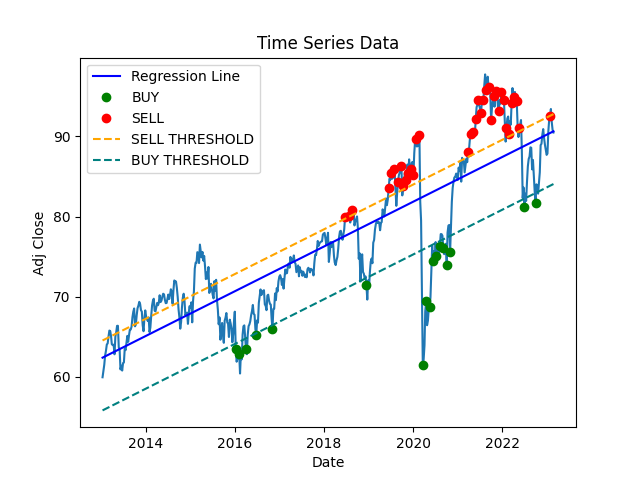
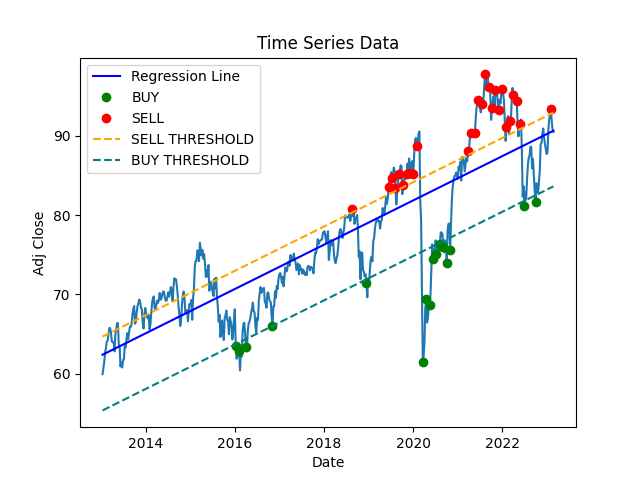
changes to strategy1

diff --git a/40percentStrategy.py b/40percentStrategy.py
@@ -16,7 +16,6 @@ plt.ylabel('Adj Close')
 plt.title('Time Series Data')
 plt.savefig('figure1.png')
 
-# total_profit, bank_reserve, buy_dates, sell_dates, sell_threshold, buy_threshold, regression, std, buy_list, coeffs, total_cgt = strategy_1(data, buy_frequency_limit=5, buy_threshold=1, sell_threshold=1, sell_frequency_limit=8, sell_percentage=0.4)
 
 #### Testing ###################################################################
 import random
@@ -46,9 +45,13 @@ def generate_random_params():
 
 def run_strategy(params):
     buy_frequency_limit, buy_threshold, sell_threshold, sell_frequency_limit, sell_percentage = params
+
     # Call the strategy function with the given input parameters
+
     revenue = strategy_1(data, buy_frequency_limit=buy_frequency_limit, buy_threshold=buy_threshold, sell_threshold=sell_threshold, sell_frequency_limit=sell_frequency_limit, sell_percentage=sell_percentage)[0]
-    # total_profit = strategy_2(data)
+    
+    # revenue = strategy_2(data, buy_frequency_limit=buy_frequency_limit)[0]
+
     print(f"Total Revenue: ${round(revenue):,}")
     return revenue
 
@@ -101,11 +104,16 @@ best_params, best_revenue = run_simulated_annealing(num_iterations)
 
 print(f"Best revenue:  ${round(best_revenue):,} with parameters: \n\nbuy_frequency_limit={best_params[0]}, buy_threshold={best_params[1]}, sell_threshold={best_params[2]}, sell_frequency_limit={best_params[3]}, sell_percentage={best_params[4]} \n")
 
-# Pass the best result to Data Analysis
 
-# total_profit, bank_reserve, buy_dates, sell_dates, sell_threshold, buy_threshold, regression, std, buy_list, coeffs, total_cgt, contributions, revenue = strategy_1(data, buy_frequency_limit=best_params[0], buy_threshold=best_params[1], sell_threshold=best_params[2], sell_frequency_limit=best_params[3], sell_percentage=best_params[4])
 
-total_profit, bank_reserve, buy_dates, buy_list, sell_dates, regression, sell_threshold, std, buy_threshold, contributions, total_cgt, coeffs = strategy_2(data)
+# Pass the best result to Data Analysis ##############################################################################################################################################
+
+# Strategy 1
+total_profit, bank_reserve, buy_dates, sell_dates, sell_threshold, buy_threshold, regression, std, buy_list, coeffs, total_cgt, contributions, revenue = strategy_1(data, buy_frequency_limit=best_params[0], buy_threshold=best_params[1], sell_threshold=best_params[2], sell_frequency_limit=best_params[3], sell_percentage=best_params[4])
+
+# Strategy 2
+# bank_reserve, buy_dates, regression, std, buy_list, coeffs, contributions, revenue = strategy_2(data, buy_frequency_limit=best_params[0])
+
 
 # DATA ANALYSIS ###############################################################
 
@@ -125,13 +133,10 @@ plt.savefig('figure2.png')
 # Calculate Variables
 year = datetime.strptime(str(buy_dates[0]), '%Y-%m-%d %H:%M:%S').year
 value_in_market = 0
-while len(buy_list) != 0:
-    buy_price, purchase_week, shares = buy_list.pop()
-    value_in_market += shares * buy_price
-ending_value = total_profit + contributions + value_in_market
+ending_value = revenue
 number_of_years = 10
-annualized_return = ((ending_value / contributions) ** (1/number_of_years))
-#### year_on_year_return =  ((ending_value - beginning_value) / beginning_value) * 100
+annualized_return = ((((ending_value - contributions) / contributions) * 100) / number_of_years)
+# year_on_year_return =  ((ending_value - beginning_value) / beginning_value) * 100
 
 ending_value = round(ending_value)
 print(ending_value)
@@ -139,7 +144,6 @@ print(f"{contributions}")
 print(f"{number_of_years}")
 TWR = ending_value / (contributions) ** (1 / 10) - 1
 print(f"TWR is {TWR}")
-
 
 print(f"{annualized_return}")
 
@@ -151,5 +155,5 @@ print(f"Value still in market: ${round(value_in_market):,}")
 print(f"Amount in bank: ${round(bank_reserve):,}")
 print(f"Total Revenue is: ${round(ending_value):,}")
 print(f"Total Tax: ${round(total_cgt):,}")
-print(f"{round(annualized_return*100,2)}% Return y/y")
+print(f"{round(annualized_return,3)}% Return y/y")
 print(f"Market Return: {round(coeffs[0] * 100)}%")

diff --git a/strategy_2.py b/strategy_2.py
@@ -12,7 +12,6 @@ def strategy_2(data, buy_frequency_limit):
     buy_week_count = 0 # Counter for number of consecutive weeks below regression line
     buy_dates = []
     buy_list = []
-    total_profit = 0
     contributions = 0
 
     # Calculate regression and standard deviation
@@ -30,19 +29,19 @@ def strategy_2(data, buy_frequency_limit):
             contributions += 3000
             buy_week_count += 1
 
-            if buy_week_count > buy_frequency_limit:
-                # Buy as many shares as possible with the bank_reserve amount
-                share_price = data['Adj Close'][i]
-                shares_to_buy = bank_reserve // share_price
-                purchase_cost = shares_to_buy * share_price + 10 ## Fixed cost for brokerage
-                # Update buy_list
-                buy_list.append((share_price, i, shares_to_buy))
-                # Update variables
-                bank_reserve -= purchase_cost
-                # Add the buy date to the list of buy dates
-                buy_dates.append(data['week'][i])
-                buy_week_count = 0
+        if buy_week_count > buy_frequency_limit:
+            # Buy as many shares as possible with the bank_reserve amount
+            share_price = data['Adj Close'][i]
+            shares_to_buy = bank_reserve / share_price
+            purchase_cost = shares_to_buy * share_price + 10 ## Fixed cost for brokerage
+            # Update buy_list
+            buy_list.append((share_price, i, shares_to_buy))
+            # Update variables
+            bank_reserve -= purchase_cost
+            # Add the buy date to the list of buy dates
+            buy_dates.append(data['week'][i])
+            buy_week_count = 0
 
-    revenue = total_profit + bank_reserve + contributions
+    revenue = bank_reserve + contributions
     # Print results
-    return (total_profit, bank_reserve, buy_dates, regression, std, buy_list, coeffs, contributions, revenue)
+    return (bank_reserve, buy_dates, regression, std, buy_list, coeffs, contributions, revenue)

diff --git a/strategy__1b.py b/strategy__1b.py
@@ -34,10 +34,6 @@ def strategy_1(data, buy_frequency_limit, buy_threshold, sell_threshold, sell_fr
             bank_reserve += 3000
             contributions += 3000
 
-        # Determine Dividend payment
-        if i % 13 == 0:
-            
-
         # Check if price is below regression line
         price_above_regression = current_price >= regression[i]
         if not price_above_regression:
@@ -47,7 +43,7 @@ def strategy_1(data, buy_frequency_limit, buy_threshold, sell_threshold, sell_fr
             if buy_week_count > buy_frequency_limit and np.any(current_price < regression[i] - buy_threshold * std):
                 # Buy as many shares as possible with the bank_reserve amount
                 share_price = current_price
-                shares_to_buy = bank_reserve / share_price
+                shares_to_buy = bank_reserve // share_price
                 purchase_cost = shares_to_buy * share_price + 10 ## Fixed cost for brokerage
 
                 # Update buy_list
@@ -115,14 +111,11 @@ def strategy_1(data, buy_frequency_limit, buy_threshold, sell_threshold, sell_fr
 
     # Determine the value still in the market
     shares_in_market = buy_list.copy()
-    final_price = data['Adj Close'][len(data)-1]
-    if len(shares_in_market) > 0:
-        while len(shares_in_market) > 0:
-            buy_price, purchase_week, shares = shares_in_market.pop()
-            value = shares * final_price
-        revenue = bank_reserve + value
-    else:
-        revenue = bank_reserve
-    
+    final_price = data['Adj Close'][-1]
+    while len(shares_in_market) > 0:
+        buy_price, purchase_week, shares = shares_in_market.pop()
+        value = shares * final_price
+
+    revenue = bank_reserve + value
     # Print results
     return (total_profit, bank_reserve, buy_dates, sell_dates, sell_threshold, buy_threshold, regression, std, buy_list, coeffs, total_cgt, contributions, revenue)
